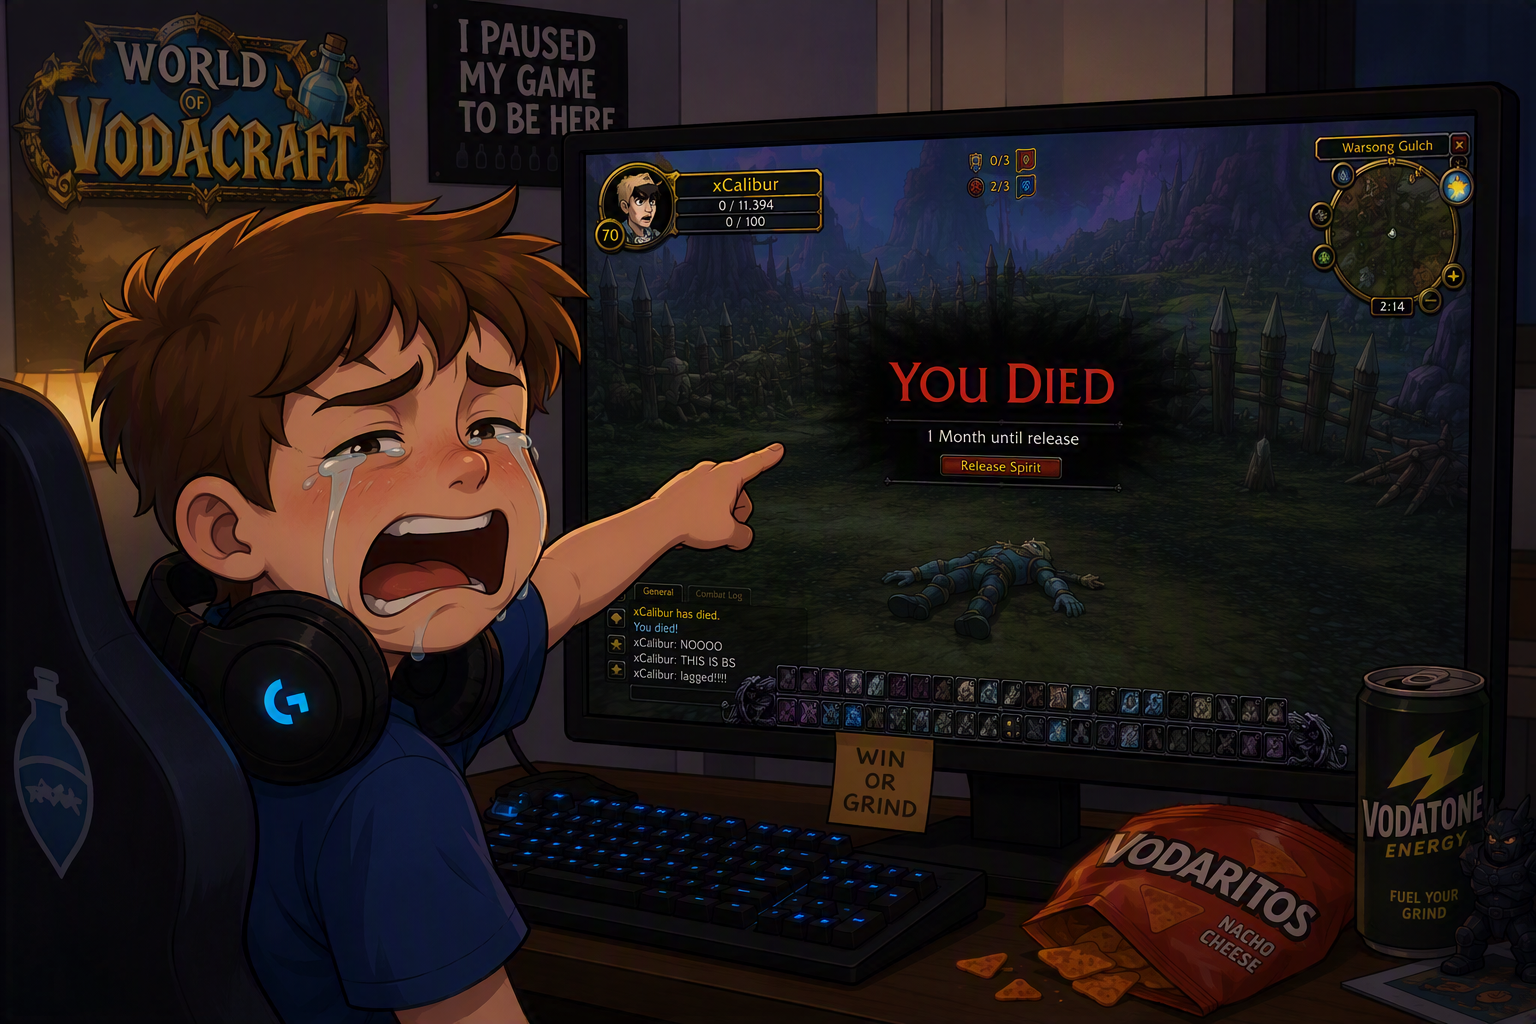
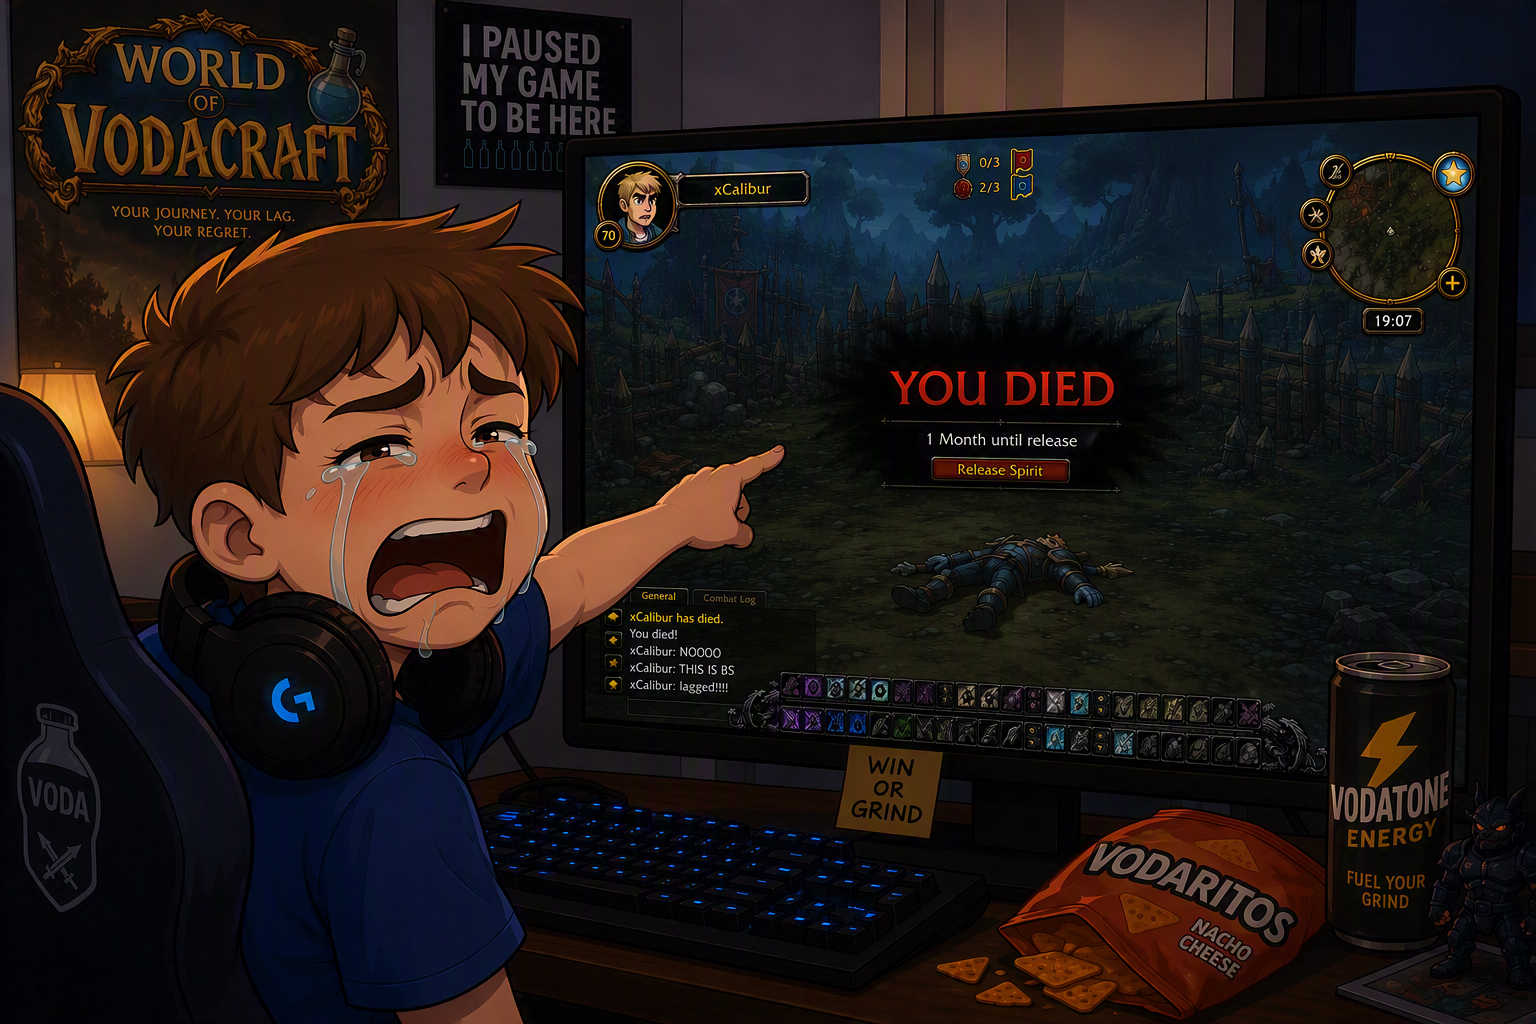
Add detailed descriptions for database tables and update weapon types

diff --git a/index.html b/index.html
@@ -41,7 +41,7 @@
             Vodatone CEO's son - Jimmy Jim - was brutally murdered... <br><br>
             ...in a video game called "World of Vodacraft", apparently he was ambushed or something 
             and now he's been crying all week and it's up to you to figure out who did it.<br>
-            In the <span class="highlight">damage_logs</span> table you will find a log of everyone who got damaged on the day of the incident.
+            In the <span class="highlight">damage_logs</span> table you will find a log of everyone who got damaged on the day of the incident. <br>
             I've attached a few clues in the <span class="highlight">clues</span> folder, you can browse them in the Clues Folder Viewer.
           </p>
         </div>
@@ -66,7 +66,10 @@
           </div>
         </div>
         <textarea id="query-input" spellcheck="false" aria-label="SQL query input">
-SELECT name FROM sqlite_master WHERE type='table' ORDER BY name;
+SELECT * 
+FROM damage_logs
+WHERE username = "???"
+ORDER BY damage_timestamp DESC;
         </textarea>
         <div class="saved-queries-row">
           <input
@@ -112,7 +115,7 @@ SELECT name FROM sqlite_master WHERE type='table' ORDER BY name;
       <section class="panel accuse-panel" aria-label="Accuse the killer">
         <h2>Name the Killer</h2>
         <p class="accuse-subtitle">
-          Found enough evidence? Submit the name of whoever you believe murdered Jimmy Jim.
+          Found enough evidence? Submit the name of whoever you believe was the perpetrator of such a crime.
         </p>
         <div class="accuse-row">
           <input

diff --git a/app.py b/app.py
@@ -37,6 +37,20 @@ VIEW_NAME_PATTERN = re.compile(r"^[A-Za-z_][A-Za-z0-9_]*$")
 # TODO: set this to the actual killer's name once the mystery is finalized.
 SOLUTION_NAME = "CHANGE_ME"
 
+TABLE_DESCRIPTIONS = {
+    "beastiary": "Monsters, their damage range, whether they're nocturnal, and where they roam.",
+    "class_weapon_permissions": "Which weapons each class is allowed to equip.",
+    "classes": "Player classes and the bonus/penalty damage they add to a hit.",
+    "clues": "Investigation notes tying suspects to locations and observations.",
+    "damage_logs": "Timestamped damage events taken by each player.",
+    "places": "In-game locations with their sunset/sunrise times.",
+    "player_overview": "Players, their class, and their currently equipped weapon.",
+    "suspects": "Suspects, their alibi, and a suspicious score.",
+    "trades": "Item trades between players, including rarity, effect, and timestamp.",
+    "weapon_effects": "Weapon effects (e.g. burning, poisoned) and their damage increment.",
+    "weapons": "Base weapons and their base damage.",
+}
+
 
 def set_status(message: str, kind: str = "") -> None:
     status_el.textContent = message
@@ -249,8 +263,12 @@ def list_tables(_event=None) -> None:
         )
 
         rows = cursor.fetchall()
+        rows = [
+            (name, TABLE_DESCRIPTIONS.get(name, "Saved query view or undocumented table."))
+            for (name,) in rows
+        ]
         elapsed_ms = max(1, round((time.perf_counter() - started_at) * 1000))
-        render_table(["table_name"], rows)
+        render_table(["table_name", "description"], rows)
         results_meta_el.textContent = (
             f"Table list fetched in {elapsed_ms} ms. {len(rows)} table(s) found."
         )

diff --git a/ideas.md b/ideas.md
@@ -82,14 +82,14 @@ ORDER BY c.class_name, w.weapon_name, we.weapon_effect;
 
 TODO: find something to thin out what class the killer was using
 
+The weapon was a poisoned dagger
+
 
 - initial image will say it was a burning weapon (possible weapons that would kill would be a non burning weapon and the correct burning weapon)
 - searching for trades with dagger	    legendary	    burning will show too many distinct weapons exist
 - Z X Y zones exist, some have different monsters, will have to know what monsters xCalibur was fighting before dying to know what zone he was.
 - He was fighting Nightmaw in Whisper Grove, and damage_logs shows he was hit with burning Talons - then we know that he died in Whisper Grove
 - Then we need to check from there, what mages also traded the legendary dagger to the easily gullible that currently has the dagger
-
-- have a table with tolls (username, entered, place)
 
 - killer traded weapon to easily_Gullible123 after time of death
 - 4 monsters available, each monster deals damage differently, they have to check 
